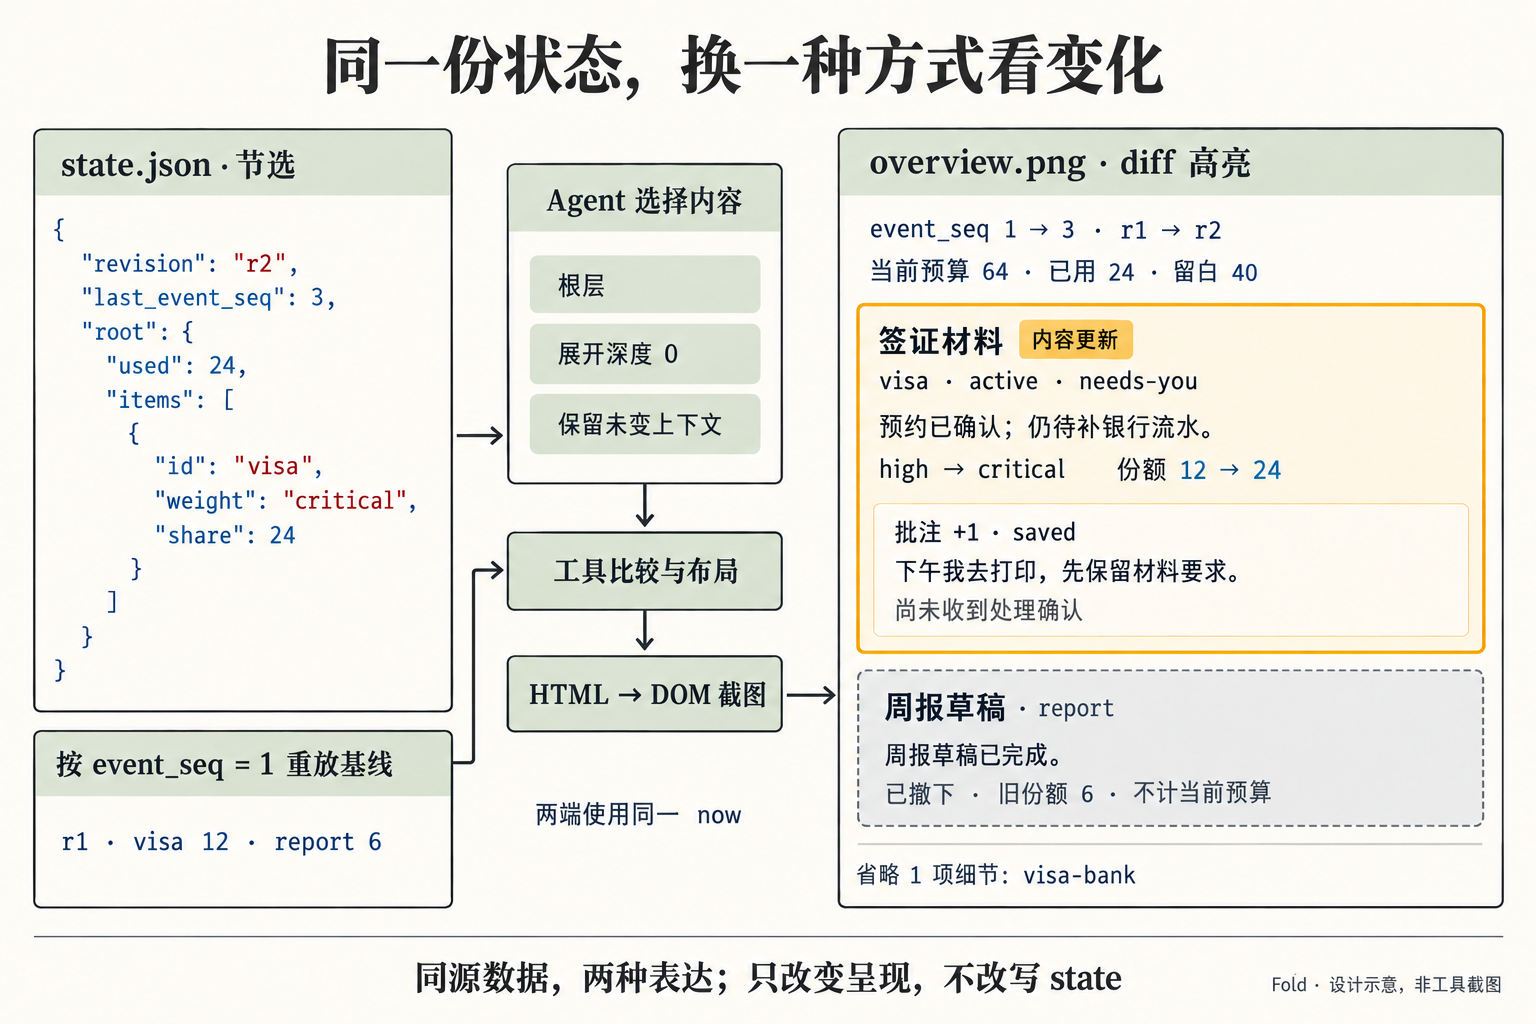
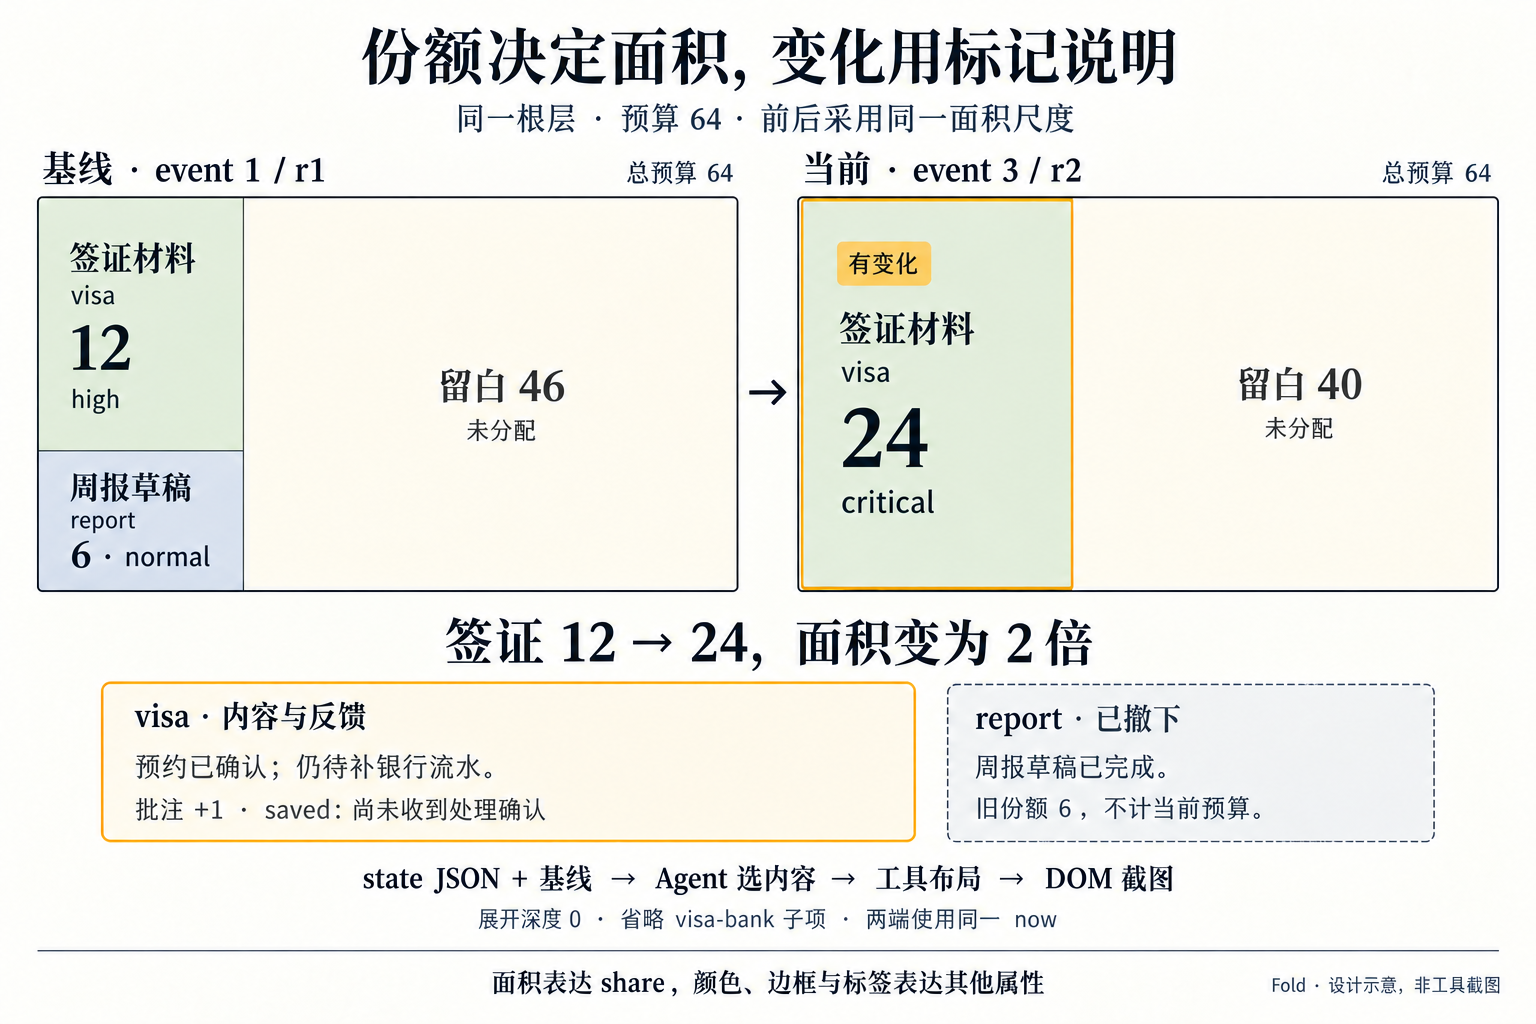
让状态概览按份额面积呈现

diff --git a/docs/formal-model.md b/docs/formal-model.md
@@ -241,7 +241,7 @@ $$
 | 下游用途 | 消费方式 | 需要另外定义的内容 |
 | --- | --- | --- |
 | 文字简报（首切片） | 按 rank 组织 active 条目，依档位折叠并保留追溯入口；不截断核心摘要 | 根据后续阅读反馈评估总行数预算与额外折叠策略 |
-| 可选视觉概览与 diff | 将捕获的状态及端点差异渲染为页面截图，辅助 Agent 观察全局与定位变化 | 通过对照验证范围选择与视觉表达是否减少遗漏、产生误读 |
+| 可选视觉概览与 diff | 将最终 share 映射为同层面积比例，渲染状态及端点差异，辅助 Agent 观察全局与定位变化 | 通过对照验证范围选择与视觉表达是否减少遗漏、产生误读 |
 | Pinboard / 其他 UI | 从份额、层级、摘要和 kind 生成界面 | 媒介适配、布局稳定与交互 |
 | 推送 | 对 `kind` 与 `weight` 执行消费端策略 | 阈值、去重及实际发送 |
 | 整理日志 | 消费已接受变化流与历史状态 | 记录粒度、保存期限 |
@@ -263,6 +263,24 @@ $$
 
 \(h_{\mathrm{view}}\) 在所选范围内等价呈现已有内容，由真实页面渲染生成图片，并明示范围与省略；它不改写摘要、不产生新的状态或事件，也不触发确认与阅读记录。
 
+对每个展示的层 \(\ell\)，预算矩形面积为 \(A_\ell\)。沿用该层全部 active 条目集合 \(I_\ell\)，令 \(J_\ell\subseteq I_\ell\) 为筛选后实际展示的条目，则：
+
+$$
+a_i=A_\ell\frac{s_i}{B_\ell},\qquad i\in J_\ell,
+$$
+
+$$
+A_{\mathrm{omitted},\ell}
+=A_\ell\frac{\sum_{i\in I_\ell\setminus J_\ell}s_i}{B_\ell},
+\qquad
+A_{\varnothing,\ell}
+=A_\ell\frac{B_\ell-\sum_{i\in I_\ell}s_i}{B_\ell}.
+$$
+
+三部分相加仍为 \(A_\ell\)：已展示卡片、标为“未展示”的中性占位区域、真实未分配留白。筛选不改变分母，也不把隐藏份额归入留白。\(s_i\) 是包含显式覆盖的最终份额；颜色、边框或图标表达其他属性，不额外改变面积。
+
+每个子层独立应用这个关系，不乘父项份额，也不跨层比较面积。同层 diff 的两端使用同一尺度；撤下或合并的旧项放在当前预算矩形外，或在独立的等尺度基线图中呈现。
+
 Agent 按条目 ID 回到 JSON 核对，视觉表达的完整性与理解效果另行验证。参数及输出契约见[视觉概览规范](information-contract.md#state-的视觉概览与-diff)，对照方法见[Skill 设计](skill-design.md#视觉辅助的对照待执行)。
 
 ## 9. 几个模型不能混淆的边界
@@ -279,6 +297,6 @@ $$
 
 批注状态 saved 应解释为“尚未收到处理确认”，不能解释为“Agent 未读取”；acknowledged 表示已纳入整理或得到回应。首次确认 revision、外部行动结果和用户阅读行为分别表达。
 
-**语义预算与媒介容量。** \(\sum s_i\leq B_\ell\) 不保证矩形能排下、文字能放下或读者能迅速理解。下游装不下时应有显式折叠规则，不把机械裁切伪装成 Agent 的语义取舍。
+**语义预算与媒介容量。** \(\sum s_i\leq B_\ell\) 不保证按比例分配的矩形能容纳文字，或读者能迅速理解。概览中的小卡片可按 ID 关联框外详情，或同比例扩大整块画布；不能用最小卡片面积或不可读的小字掩盖容量问题。
 
 **保留细节与摘要质量。** 子层、历史和来源支持追问，但不证明摘要没有遗漏。结构检查、模型估计的对照评估与用户体验观察各自回答不同问题。

diff --git a/docs/decisions.md b/docs/decisions.md
@@ -46,7 +46,7 @@
 | 调用时机 | 开始时读状态与待确认批注；里程碑提交；结束前调用一次 commit，允许 checked 或仅确认。 | 非常驻宿主也能完成整理与确认。 |
 | 资料更新 | sources 属于可变资料，补充来源会刷新 updated_at；该时间不表示现实事项一定推进。 | 先保留一个清楚的资料更新时间，不为排序再增加一套时钟。 |
 | 首个渲染器 | 文字简报，遵循[消费者规则](information-contract.md#5-同一输出可以有哪些消费者)；首切片不设额外总行数硬限制。 | 先验证摘要与档位折叠的阅读效果，不凭空加入 12 行裁切。 |
-| Agent 视觉概览 | state 可按条目、字段、深度选择内容，由工具布局并真实渲染 PNG；diff 按事件位置比较，同一份 JSON 保留为核对依据。接口见[视觉概览规范](information-contract.md#state-的视觉概览与-diff)。 | 在所选范围内提供等价视觉表达，降低定位变化的负担；不改变状态结构、不重新判定重要性。 |
+| Agent 视觉概览 | 以精简 Pinboard 表达 state：同层面积映射最终 share / budget，留白与未展示占位分开；颜色与标记承载其他属性。选择、真实渲染和 diff 见[视觉概览规范](information-contract.md#state-的视觉概览与-diff)。 | 让关注份额有直观大小，而非仅显示数字；不改变状态结构、不重新判定重要性。 |
 | 实现栈与输入格式 | 内核、存储及普通 CLI 使用 Python 标准库，事件与快照保持原结构；可视模块另用可选浏览器运行环境。commit 只接收 JSON，YAML 仅用于设计用例。 | 将实际截图依赖与核心隔离；无浏览器仍可读取 JSON，不用生成式图片伪造业务图。 |
 
 ## 实现顺序与完成标准

diff --git a/docs/visual-guide.md b/docs/visual-guide.md
@@ -9,7 +9,7 @@
 | [README](../README.md) | 项目开头：01 整体流程 |
 | [产品方向](product.md) | 为什么做：07 LLM 的双重作用；设计原则：05 要点与按需深入 |
 | [用户故事](user-stories.md) | US-01：02 异步往返；US-02：06 时间语义；US-03：08 满额取舍；US-04：09 反馈阶段；US-05：10 共享状态冲突 |
-| [输入输出契约](information-contract.md) | 两条来源进入整理：03 同构输入；视觉概览：20 同一状态的 JSON、概览与 diff；必须保留的边界：11 输入记录与状态记录 |
+| [输入输出契约](information-contract.md) | 两条来源进入整理：03 同构输入；视觉概览：20 份额面积与同尺度 diff；必须保留的边界：11 输入记录与状态记录 |
 | [数学模型](formal-model.md) | 状态与预算：17 状态树与逐层约束；上下文估计：18 函数依赖；确定性执行与重放：19 有序重放与分段恒等式 |
 | [Skill 设计](skill-design.md) | 表述与上下文：04；两类一致性：12 等义改写与相关背景变化 |
 | [顶层架构](architecture.md) | 职责边界：13 模块分工；数据流另保留可编辑的 Mermaid 定义 |
